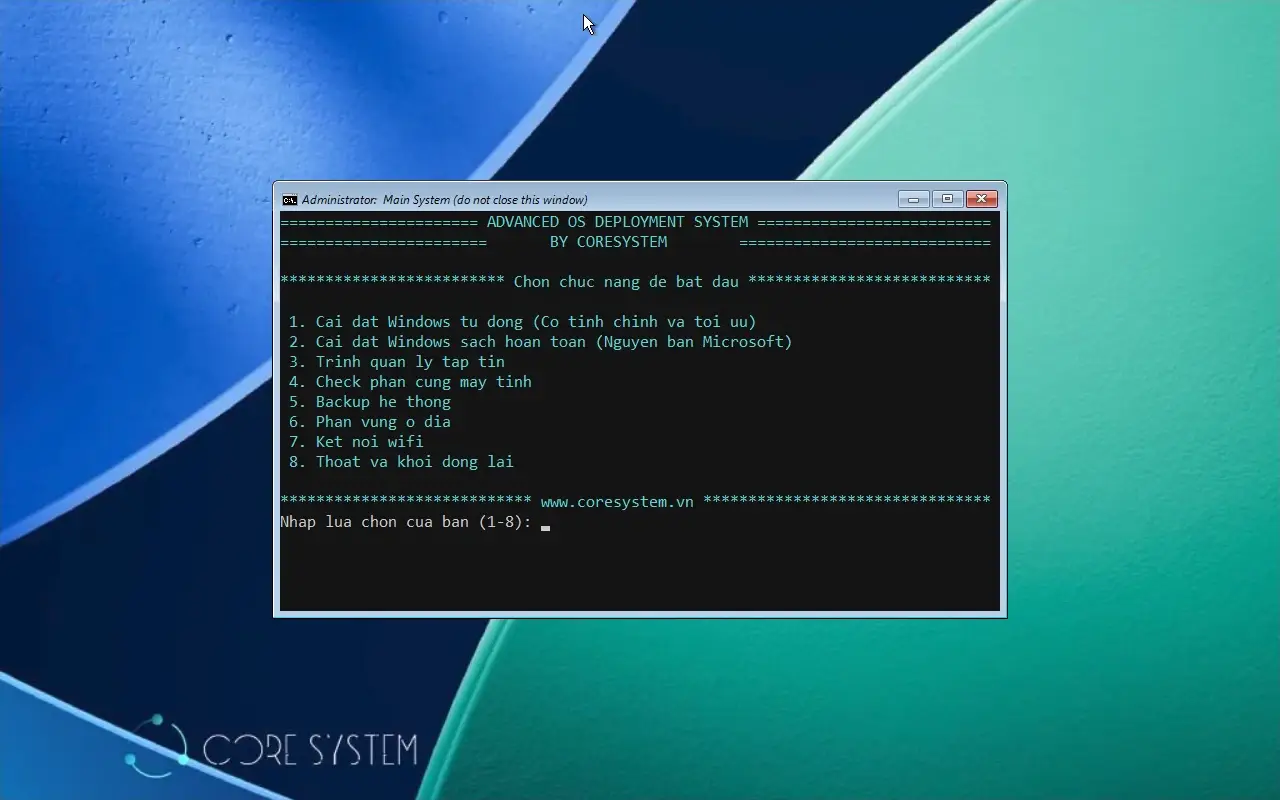
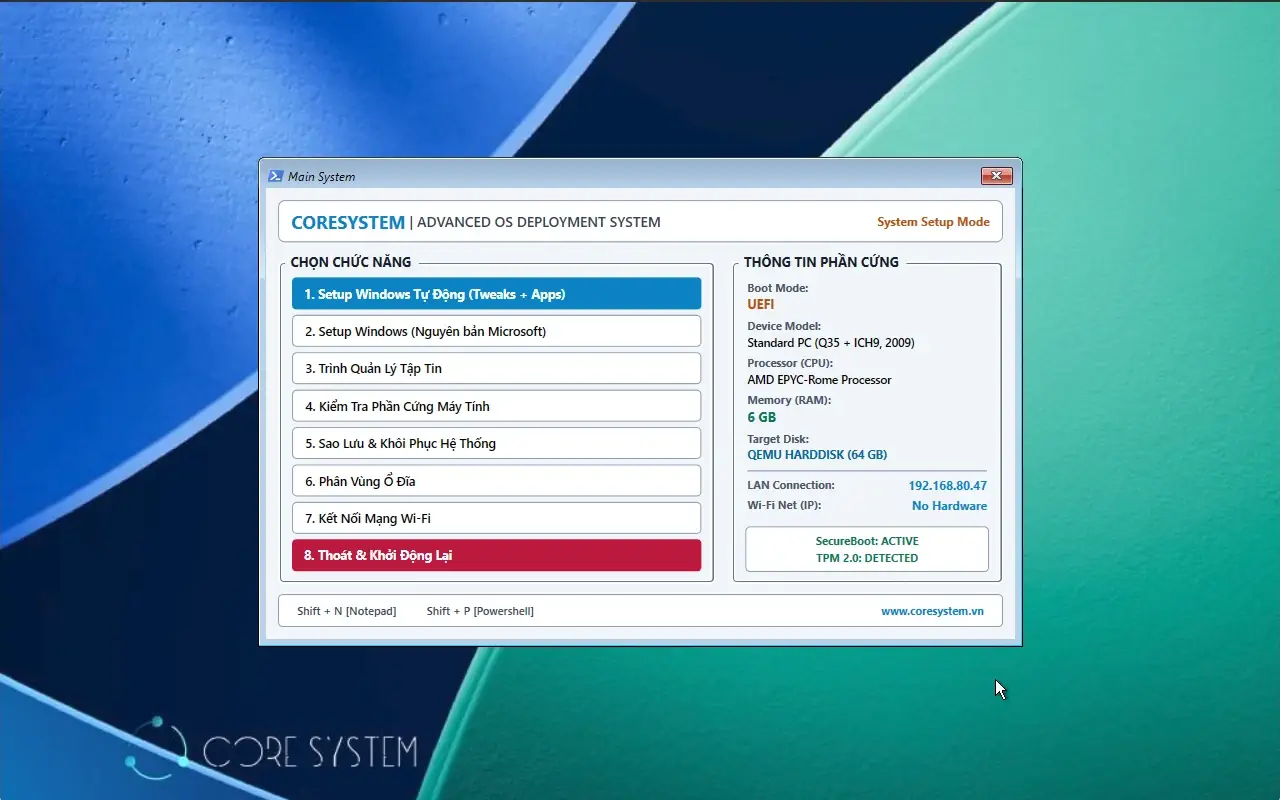
Update readme

diff --git a/README.md b/README.md
@@ -1,4 +1,4 @@
-# OSDCloud
+### OSDCloud
 
 Một dự án nho nhỏ từ [CoreSystem](https://coresystem.vn) với mong muốn hỗ trợ anh em IT cài đặt Windows 11 chuẩn ngành cho nhu cầu doanh nghiệp với các tiêu chí
 
@@ -35,14 +35,6 @@ Phù hợp cho đa dạng thiết bị phần cứng từ các công ty như HP,
 **Giao diện chính**
 
 ![Bootscreen](Resources/main-system.webp "Boot screen")
-
-
-**Demo video**
-
-Toàn bộ quá trình cài đặt chỉ khoảng 25 phút. Thực sự ấn tượng phải không?
-
-
-https://github.com/user-attachments/assets/000f333a-9fd0-4fff-a8f1-750a3c13c7d2
 
 
 